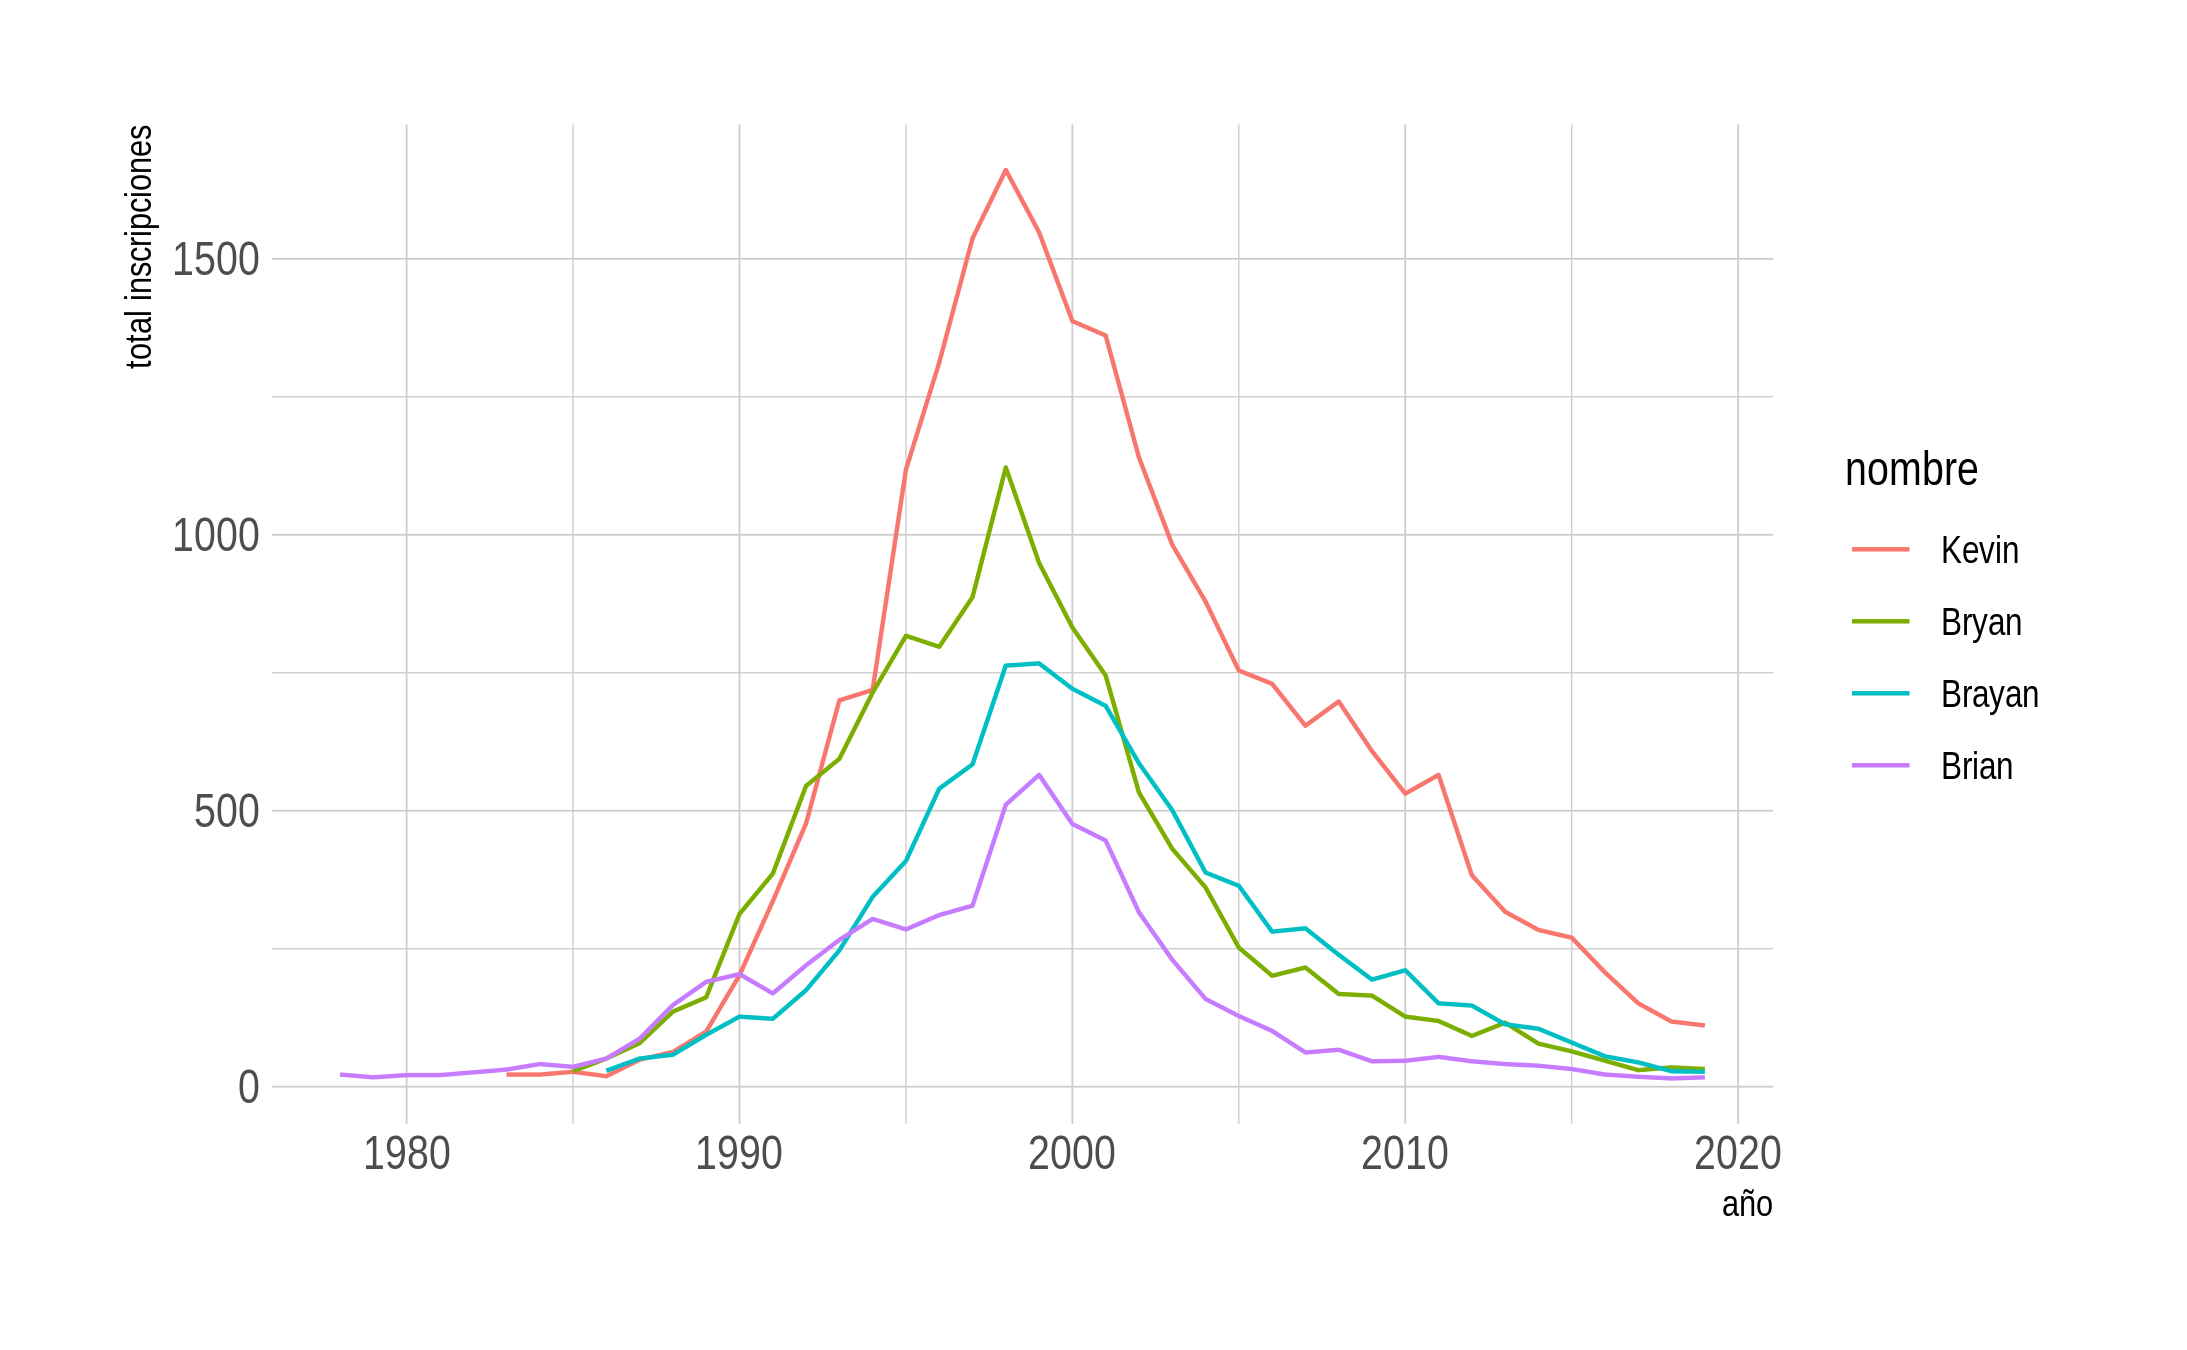
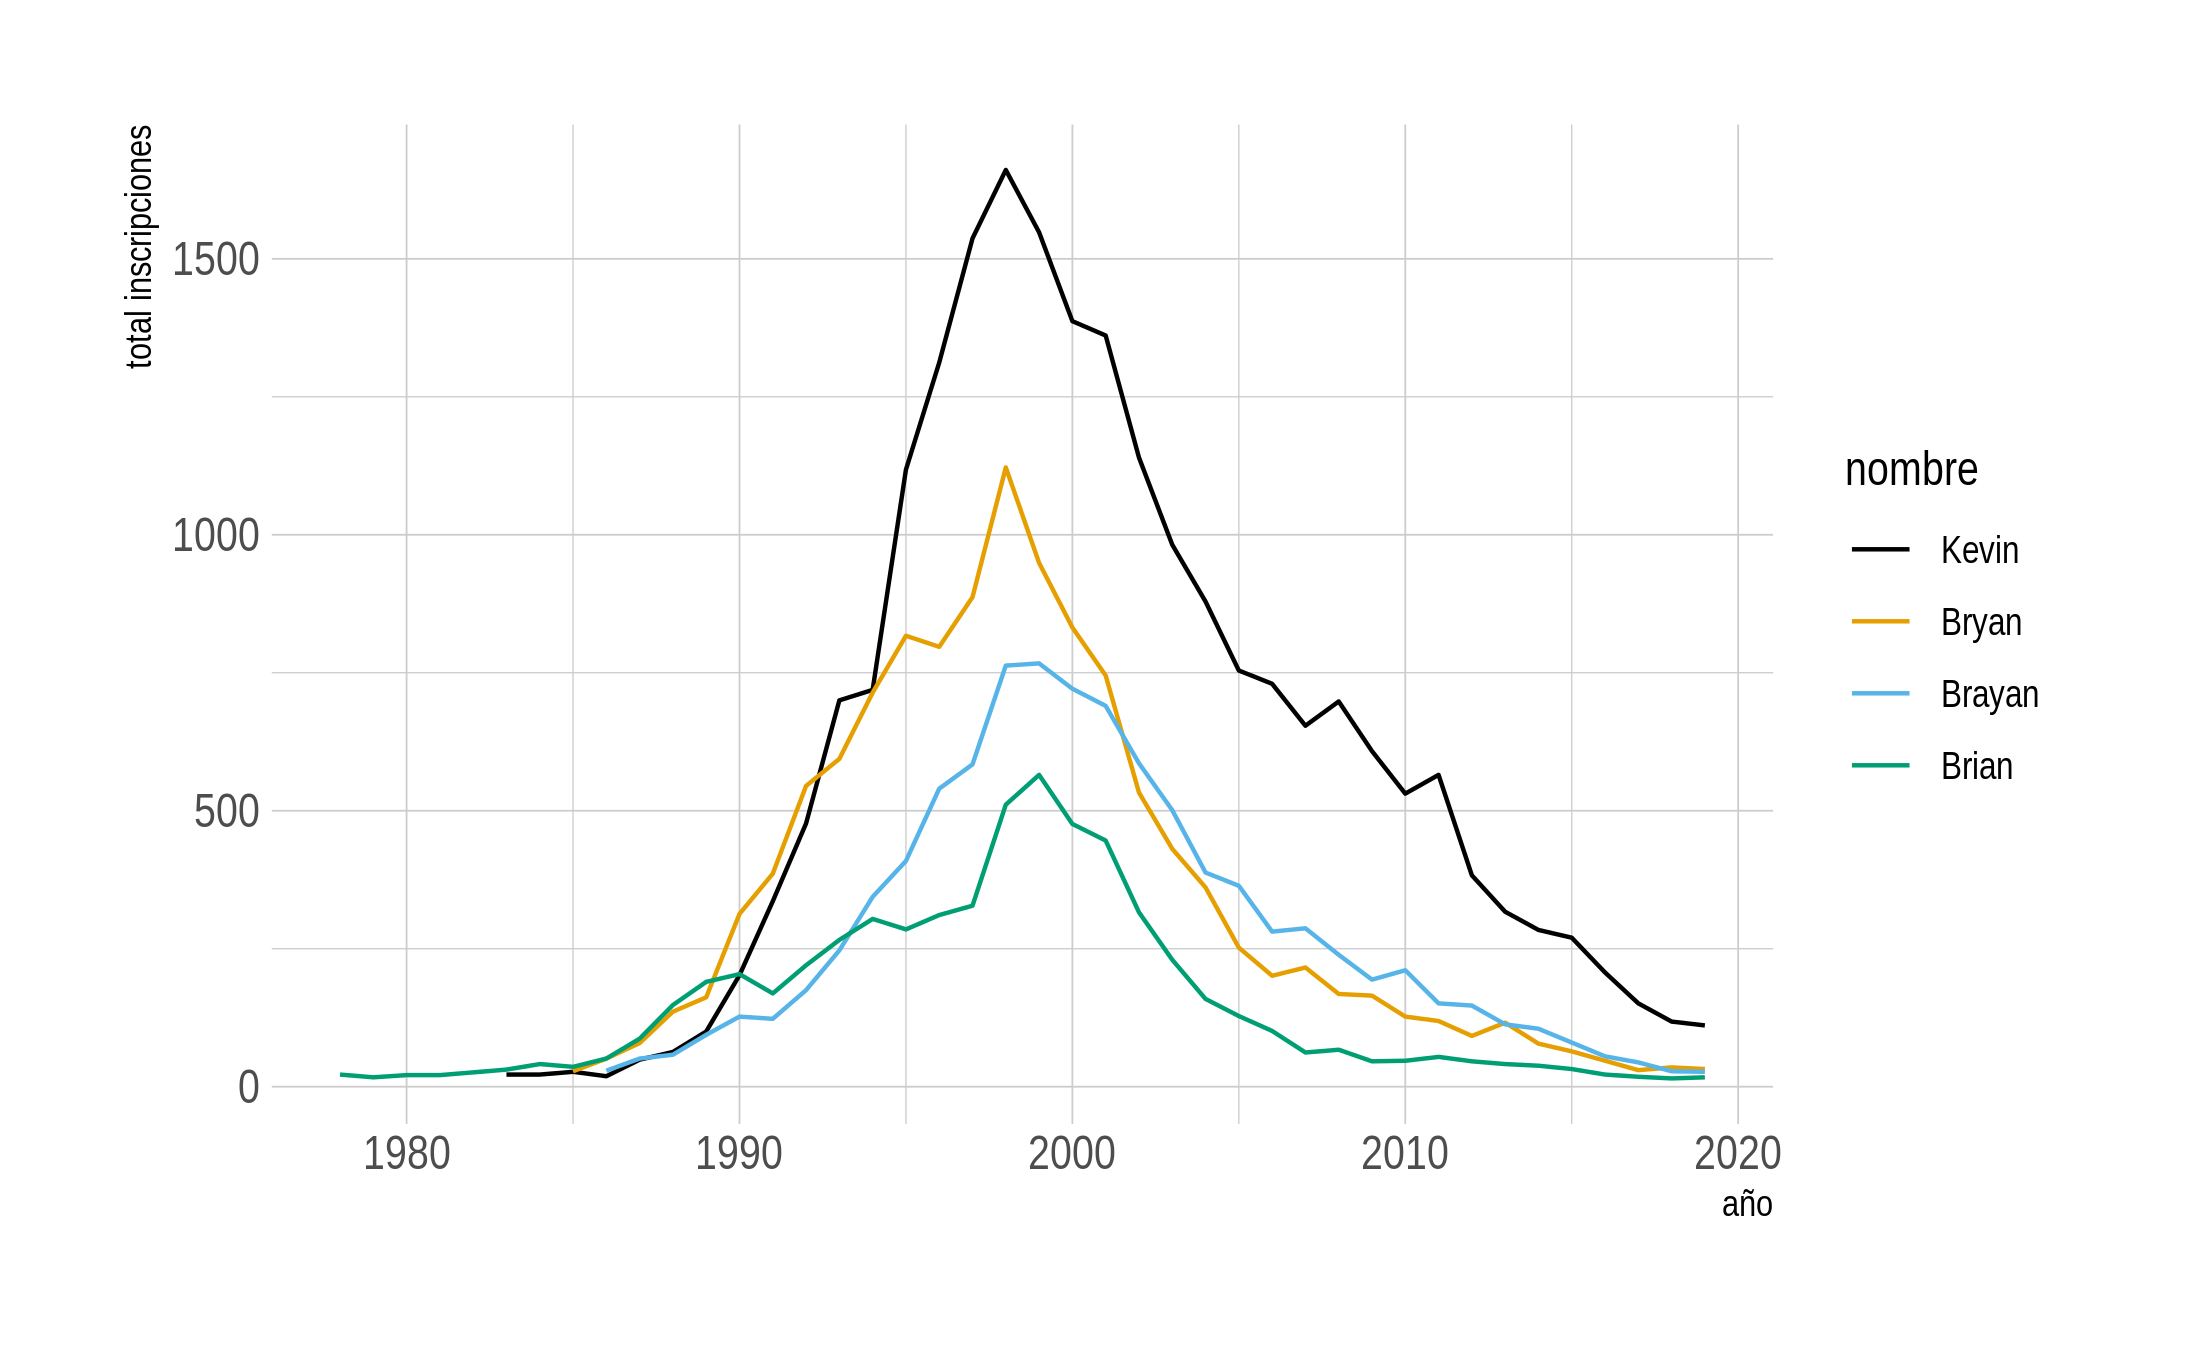
scale_color_colorblind()

diff --git a/README.md b/README.md
@@ -13,16 +13,10 @@ status](https://travis-ci.com/rivaquiroga/guaguas.svg?branch=master)](https://tr
 
 Datos de nombres de guaguas (bebés) registrados en Chile entre 1920 y
 2019, según el Servicio de Registro Civil e Identificación. Incluye
-todos los nombres con al menos 15 ocurrencias.
-
-El dataframe `guaguas` contiene cuatro variables: año de inscripción,
-sexo registral, nombre, número de ocurrencias del nombre y proporción
-del nombre respecto del total de inscripciones del año.
-
-Los datos contenidos en este paquete permiten explorar algunas
-tendencias en los nombres registrados en Chile durante el último siglo.
-Puede utilizarse también como dataset de práctica para enseñar/aprender
-R.
+todos los nombres con al menos 15 ocurrencias. Este *dataset* permite
+explorar algunas tendencias en los nombres registrados durante el último
+siglo y puede utilizarse también como datos de práctica para
+enseñar/aprender R.
 
 ## Instalación
 
@@ -31,12 +25,24 @@ R.
 devtools::install_github("rivaquiroga/guaguas")
 ```
 
+## Datos
+
+El dataframe `guaguas` contiene cuatro variables y un total de 84565
+observaciones:
+
+| variable     | descripción                                                       |
+| ------------ | ----------------------------------------------------------------- |
+| `anio`       | año de inscripción                                                |
+| `sexo`       | sexo registral                                                    |
+| `n`          | número de ocurrencias del nombre                                  |
+| `proporcion` | proporción del nombre respecto del total de inscripciones del año |
+
 ## Ejemplos
 
 A continuación se muestran algunos ejemplos de exploración de estos
 datos.
 
-### El contexto político en los años sesenta y setenta
+#### El contexto político en los años sesenta y setenta
 
 Los dos momentos en que aumentan las inscripciones con el nombre
 *Salvador* en los años sesenta y setenta coinciden con elecciones
@@ -54,19 +60,20 @@ library(stringr)
 library(ggplot2)
 library(forcats)
 library(hrbrthemes)
+library(ggthemes)
 
 guaguas %>% 
   filter(nombre %in% c("Salvador", "Augusto"), anio >= 1960 & anio <= 1979) %>% 
   ggplot(aes(anio, n, color = fct_reorder2(nombre, n, anio))) + 
   geom_line() +
-  theme_minimal() +
+  scale_color_colorblind() +
   labs(x = "año", y = "total inscripciones", color = "nombre") +
   theme_ipsum()
 ```
 
 <img src="man/figures/salvador-augusto.png">
 
-### El efecto “Romané” en el año 2000
+#### El efecto “Romané” en el año 2000
 
 Según [IMDB](https://www.imdb.com/list/ls006742360/),
 [Romané](https://es.wikipedia.org/wiki/Roman%C3%A9) ha sido una de las
@@ -94,14 +101,14 @@ guaguas %>%
   filter(nombre %in% c("Milenka", "Branco", "Salomé"), anio > 1980) %>% 
   ggplot(aes(anio, n, color = nombre)) + 
   geom_line() +
-  theme_minimal() +
+  scale_color_colorblind() +
   labs(x = "año", y = "total inscripciones") +
   theme_ipsum()
 ```
 
 <img src="man/figures/romane.png">
 
-### Ídolos musicales
+#### Ídolos musicales
 
 Alguno de los nombres de integrantes de los [Backstreet
 Boys](https://es.wikipedia.org/wiki/Backstreet_Boys) aumentaron hacia
@@ -114,7 +121,7 @@ guaguas %>%
   filter(nombre %in% c("Brian", "Kevin", "Bryan", "Brayan")) %>% 
   ggplot(aes(anio, n, color = fct_reorder2(nombre, anio, n))) +
   geom_line() +
-  theme_minimal() +
+  scale_color_colorblind() +
   labs(x = "año", y = "total inscripciones", color = "nombre") +
   theme_ipsum()
 ```
@@ -123,15 +130,10 @@ guaguas %>%
 
 <p align="center">
 
-<img src="man/figures/por-que-me-llamo-brian.JPG" width="400">
-
-</p>
-
-<p align="center">
-
-Un cartel visto durante la presentación de los Backstreet Boys en el
-Festival de Viña del Mar 2019 </br>Fuente de la imagen:
-<a href="https://www.fmtiempo.cl/tendencias/galeria-los-mejores-carteles-que-dejo-el-paso-de-los-backstreet-boys-en-vina/">FMTiempo</a>
+<img src="man/figures/por-que-me-llamo-brian.JPG" width="300"><br> Un
+cartel visto durante la presentación de los Backstreet Boys en el
+Festival de Viña del Mar 2019</br>Fuente de la imagen:
+<a         href="https://www.fmtiempo.cl/tendencias/galeria-los-mejores-carteles-que-dejo-el-paso-de-los-backstreet-boys-en-vina/">FMTiempo</a>
 
 </p>
 
